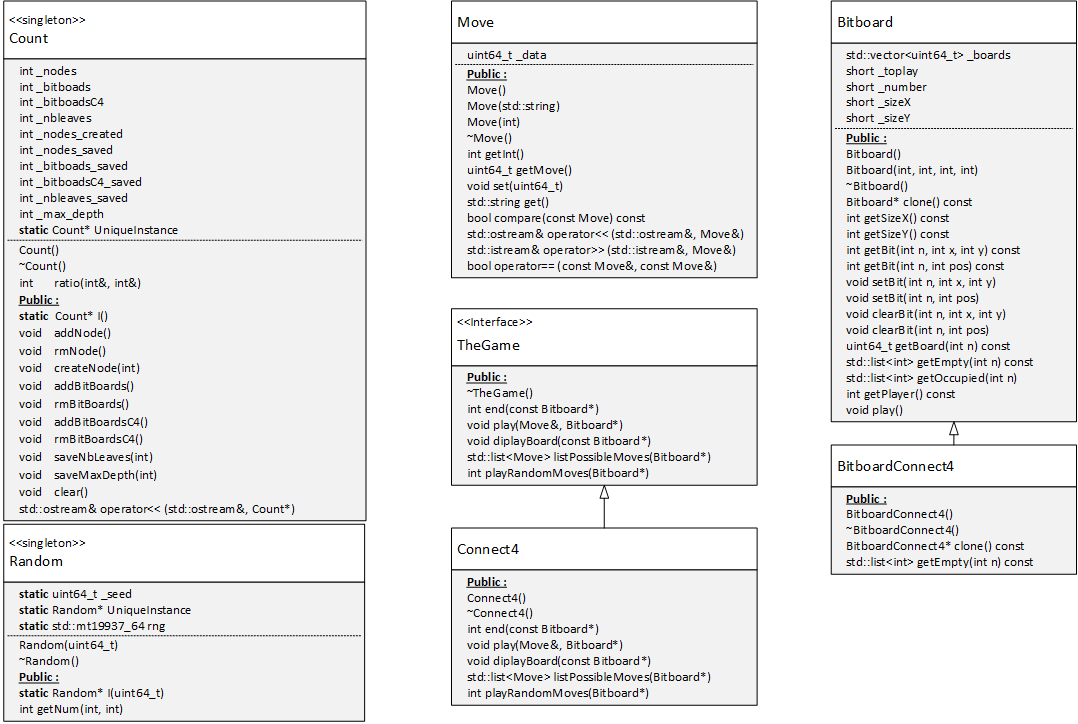
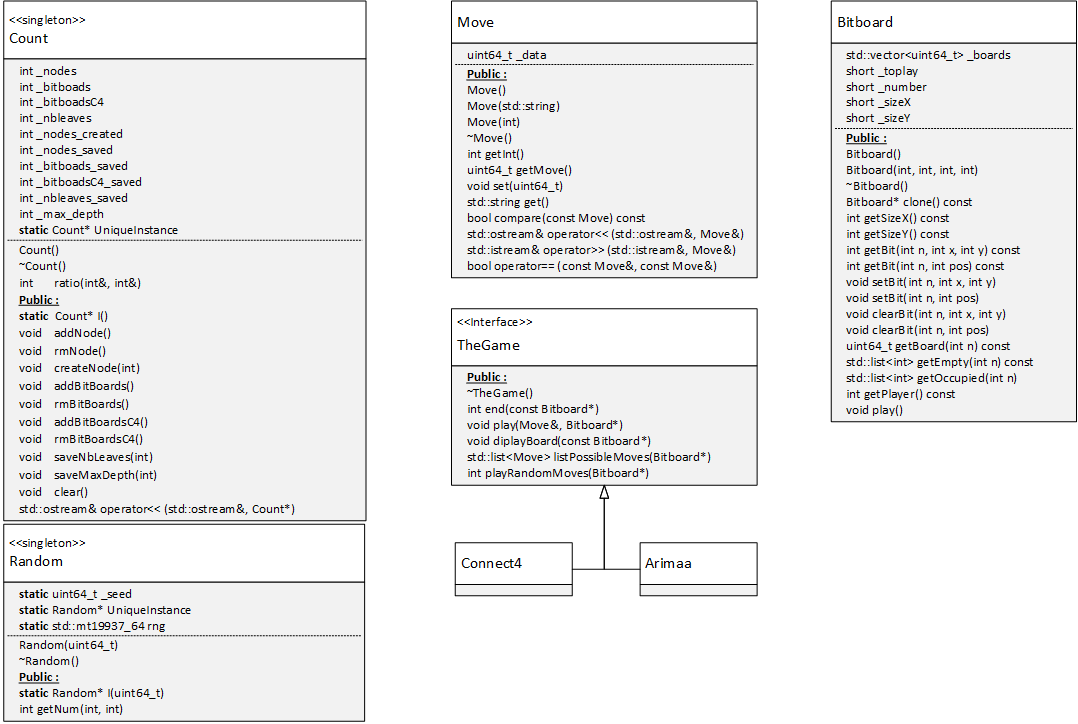
Benoit's part finished.

diff --git a/Docs/Reports/Report_4/Data_Structure/text.tex b/Docs/Reports/Report_4/Data_Structure/text.tex
@@ -1,15 +1,7 @@
 Given the size of the data our software will be working on, it requires an efficient way of storing them. There are 2 kinds of data, on the first hand the ones the programs works on; on the other hand, the parameters and utilities.
 \subsection{Representation of the playouts}
 \subsubsection{Bitboards}
-Boards are stored as bitboard. As the game is played on a \ensuremath{8\times8} board, it is convinient to use a 64 bit integer to store the positions of the pieces. That way, each and every of a kind of pieces are stored on the same x64 integer, saving space as opposed to a matrix \ensuremath{8\times8} retaining all the informations. Players own rabbits, cats, dogs, horses, camel and elephant; thus using 6 integers for each player do the job. Adding an additionnal bitboard to store the position of every pieces of each players helps to increase the speed of the algorithm by reducing the number of test required to be done during the playout phases. It also allows quick tests and modifications such as bit twiddling given the nature of the data.
-
-\subsubsection{Game abstraction}
-Lorem ipsum dolor sit amet, consectetur adipisicing elit, sed do eiusmod
-tempor incididunt ut labore et dolore magna aliqua. Ut enim ad minim veniam,
-quis nostrud exercitation ullamco laboris nisi ut aliquip ex ea commodo
-consequat. Duis aute irure dolor in reprehenderit in voluptate velit esse
-cillum dolore eu fugiat nulla pariatur. Excepteur sint occaecat cupidatat non
-proident, sunt in culpa qui officia deserunt mollit anim id est laborum.
+Boards are stored as bitboard. As the game is played on a \ensuremath{8\times8} board, it is convinient to use a 64 bit integer to store the position of the pieces. That way, each and every kind of pieces are stored on the same x64 integer, saving space as opposed to a matrix \ensuremath{8\times8} retaining all the informations. Players own rabbits, cats, dogs, horses, camel and elephant; thus using 6 integers for each player do the job. Adding an additionnal bitboard to store the position of every pieces of each players helps to increase the speed of the algorithm by reducing the number of test required to be done during the playout phases. It also allows quick tests and modifications such as bit twiddling given the nature of the data.
 
 \subsubsection{Nodes}
 \begin{figure}[H] 
@@ -30,11 +22,28 @@ N = \frac{R \times 90\%}{2}
 \ensuremath{N} = number of leaves.\\
 \ensuremath{R} = RAM left to use.
 
-We chose to limit the memory used by the tree to 90\% of the available memory in order to not overload the RAM and to let some left for other operations such as simulations. It also allows us to make sure that the swap will not be used to store the tree as it heavily impacts on the speed of its exploration.
+We chose to limit the memory used by the tree to 90\% of the available memory in order to not overload the RAM and to let some left for other operations such as simulations. It also allows us to make sure that the swap will not be used to store the tree as it impacts heavily on the speed of its exploration.
+
+\subsubsection{Game abstraction}
+\begin{figure}[H] 
+\centerline{\includegraphics[scale=0.8]{Data_Structure/Img/TheGame.png}}
+\caption{\label{fig:thegamedetails}\textit{Details of methods cointained in the interface TheGame}.}
+\end{figure}
+In order to know the moves that can be played and the winning conditions, the mcts algorithm has to have access to a class discribing the game. This abstract class is implemented and passed as a parameter at the instantiation of the mcts object. It allow genericity in the algorithm and permit to use it on any board games such as Connect4 or Arimaa. This interface has 4 main methods : 
+
+\noindent
+\textit{\textbf{end}} : check if the board provided is a final state.
+\medskip\\
+\textit{\textbf{play}} : play a given move on a given board.
+\medskip\\
+\textit{\textbf{listPossibleMoves}} : list all the possible moves given a board, this is used when a node is to be expanded.
+\medskip\\
+\textit{\textbf{playRandomMoves}} : play random moves until a final state is reached and return the winner, this is the random simulation part.
+
 \newpage
-\subsection{Parameters and Utilities}
+\subsection{Parameters and utilities}
 \subsubsection{Parameters}
-Instead of directly passing all the parameters to the mcts object at its intentiation, we decided to create an object that would provide them given appropriate inline getters. The point of this is to allow quick modification on the parameters without having to rewrite some parts of the mcts to make sure that each files are updated. The main idea applied here is to separate the data from the algorithm with the same principle as the MVC design pattern.
+Instead of directly passing all the parameters to the mcts object at its instantiation, we decided to create an object that would provide them, given appropriate inline getters. The point of this is to allow quick modification on the parameters without having to rewrite some parts of the mcts to make sure that each files is updated. The main idea applied here is to separate the data from the algorithm with the same principle as the MVC design pattern.
 \begin{figure}[H] 
 \centerline{\includegraphics[scale=0.8]{Data_Structure/Img/MctsArgs.png}}
 \caption{\label{fig:mctsargsuml}\textit{Details of the parameters of the algorithm}.}

diff --git a/Docs/Reports/Report_4/Parallelisation/Computer/text.tex b/Docs/Reports/Report_4/Parallelisation/Computer/text.tex
@@ -1,14 +1,43 @@
-Given the size of the tree to be explored (at least 400 million nodes), a Root parallelisation strategy on computers could not be applied. A 11 million nodes tree require about 2 Go of RAM\ref{fig:RAMTree}. Should it be timed by 40 and the number of core, there would be not enough RAM.
+Given the size of the tree to be explored (at least 400 million nodes), a root parallelisation strategy on computers could not be applied. A 11 million nodes tree require about 2 Go of RAM. Should it be timed by 40 and the number of core, there would be not enough RAM.
+\bigskip
+\begin{center}
+	\begin{tabular}{ | c | c | c |}
+		\hline  & Before & After \\ \hline
+		\hline  
+		Percentage of memory used & 39\% & 93\% \\
+		\hline  
+		Total physical memory & 3981 MB & 3981 MB \\
+		\hline  
+		Free physical memory & 2411 MB & 255 MB \\
+		\hline
+	\end{tabular}
+	
+	Comparison between the RAM available before and after\\the creation of a tree (and its buffer) composed by 10 940 207 nodes.
+\end{center}
+\bigskip
+
+With this in mind, a tree parallelisation strategy has to be implemented on the computer. In this method, multiple threads share the same tree, the exploration is done the same way as it is with one thread.
 \begin{figure}[H]
-\centerline{\includegraphics[width=0.6\textwidth]{Parallelisation/Computer/Img/RAM.png}}
-\caption{\label{fig:RAMTree}\textit{Memory used before and after the creation of nodes}.}
+\centerline{\includegraphics[]{Parallelisation/Computer/Img/Tree.png}}
+\caption{\label{fig:TreeParallelization}\textit{Tree parallelization}}
 \end{figure}
+\begin{figure}[H]
+\centerline{\includegraphics[width=0.7\textwidth]{Parallelisation/Computer/Img/legend.png}}
+\end{figure}
+The main problem of this method is that multiple threads can access the same node and corrupt data given by another thread. To avoid such problems, we will be using \textit{virtual loss} and \textit{local mutexes}.
 
-A tree parallelisation strategy has to be implemented on the computer. It can be done by multithreading the \textit{While // loop simulations} descriped in the base algorithm implementation\ref{fig:MCTSAlgorithm}.
+Should a thread go through a node, it automaticaly increases the value of its visit counter. This will virtually decrease the winning rate of the node and therefore decrease its attractiveness.
 
-Using OpenMP, this is easily implented with a single \#pragma statement :\\
+Each node also has a boolean to serve as a lock in order to prevent concurency. Its access is done in a critical section (atomic capture). Should a thread access a locked node, it will stop exploring and start its simulations.
+
+This method of parallelization can be done by multithreading the \textit{While // loop simulations} descriped in the base algorithm implementation\ref{fig:MCTSAlgorithmOMP}. Using OpenMP, this is easily implented with a single \#pragma statement :\\
 \textbf{\#pragma omp parallel shared(i,timeend)}\\
 where \textit{i}, the number of simulation run and \textit{timeend}, the time until simulations are to be run are defined as shared variables.
 
-In order to prevent any conflict between threads, a small critical section has to control the tree expansion. This can be done by using the following statement before the call of \textit{UpdateNode(node)}:\\
+In order to prevent any conflict between threads, a small critical section has to control the lock of the nodes. Placing the following statement before \textit{node->getLock()} do the job :\\
 \textbf{\#pragma omp critical}
+
+\begin{figure}[H]
+\centerline{\includegraphics[width=0.7\textwidth]{Parallelisation/Computer/Img/omp.png}}
+\caption{\label{fig:MCTSAlgorithmOMP}\textit{Overview of the implementation of the tree parallelization using OpenMP}}
+\end{figure}

diff --git a/Docs/Reports/Report_4/Report4_WIP.tex b/Docs/Reports/Report_4/Report4_WIP.tex
@@ -103,9 +103,9 @@
 	\subsection{Strategy}			\label{sec:strategy}			\input{Parallelisation/Strategy/text.tex}
 \newpage
 	\subsection{On cluster}			\label{sec:cluster}			\input{Parallelisation/Cluster/text.tex}
+\newpage
 	\subsection{On computer}		\label{sec:computer}			\input{Parallelisation/Computer/text.tex}
-%	\subsection{CAF}			\label{sec:caf}				\input{Parallelisation/CAF/CAF.tex}
-
+\noindent
 \newpage
 \section{Graphical User Interface}		\label{sec:gui}				\input{GUI/text.tex}
 

diff --git a/Docs/Reports/Report_4/Annexes/text.tex b/Docs/Reports/Report_4/Annexes/text.tex
@@ -1,7 +1,7 @@
 \subsection{MCTS Class Diagram}
 \begin{figure}[H] 
 \centerline{\includegraphics[width=0.7\textwidth]{Annexes/Img/MCTS.png}}
-\caption{\label{fig:mctsclassdiagram}\textit{Details of the MCTS namespace}.}
+\caption{\label{fig:mctsclassdiagram}\textit{Details of the mcts namespace}.}
 \end{figure}
 
 \subsection{Data Structure Class Diagram}
